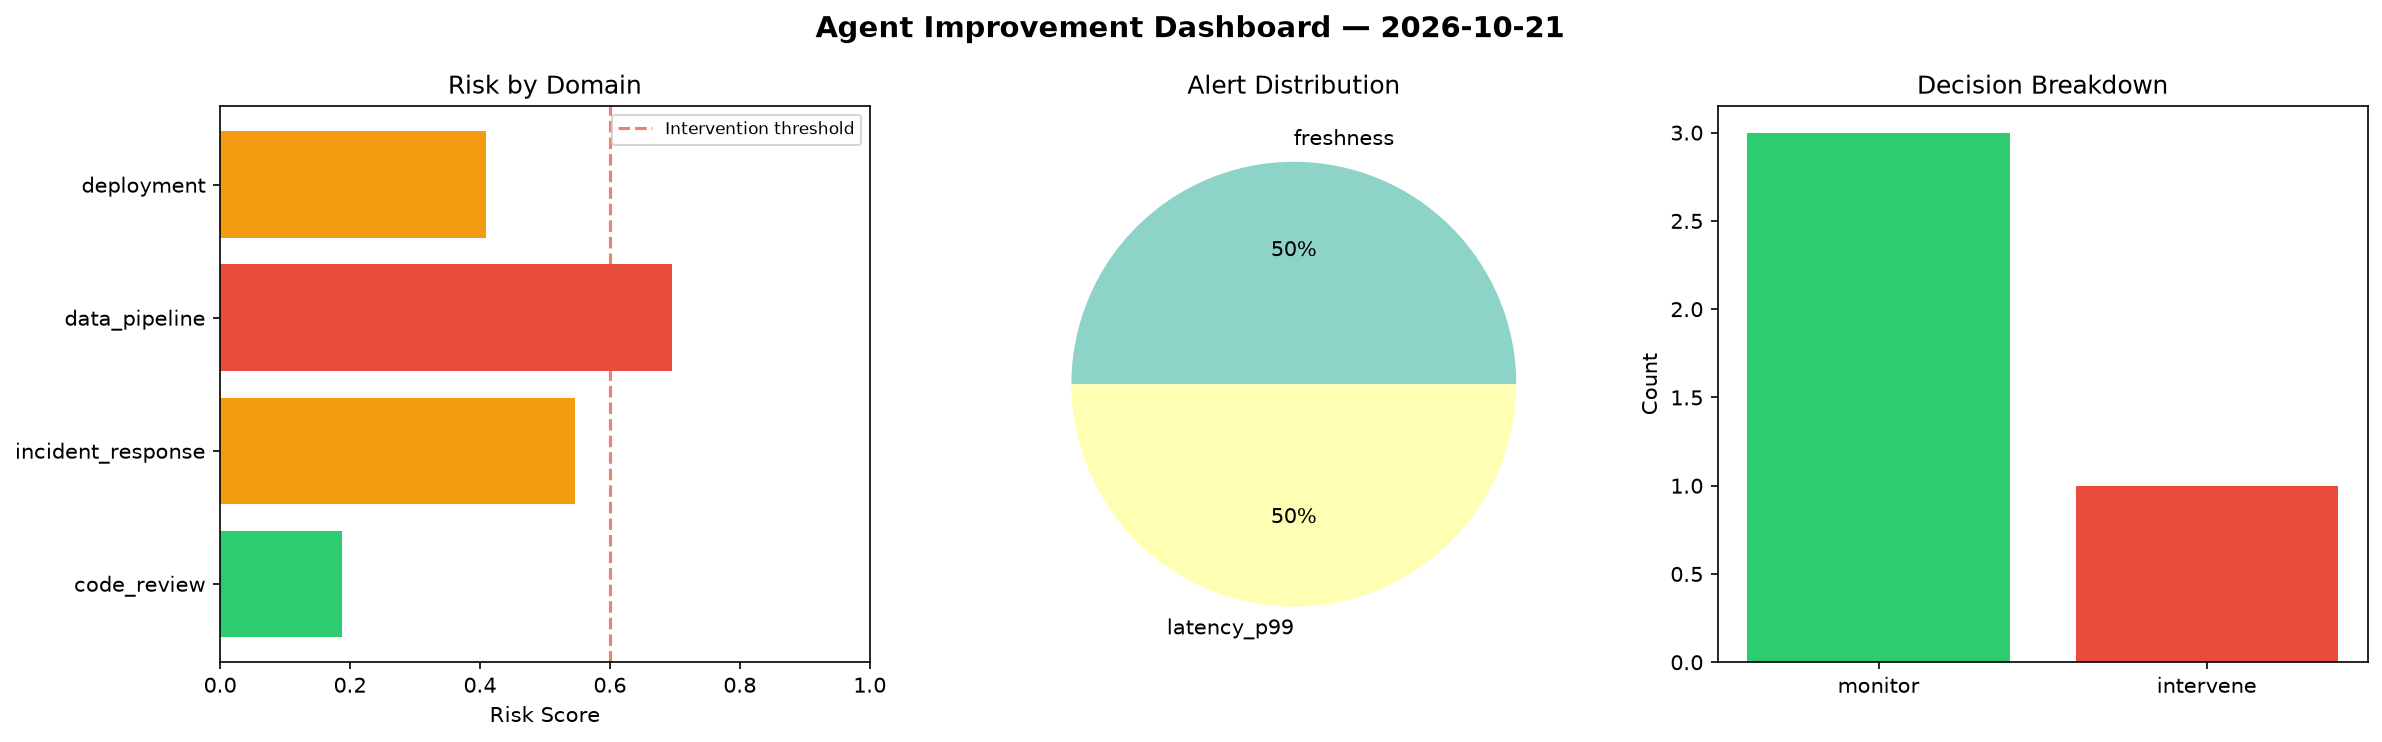
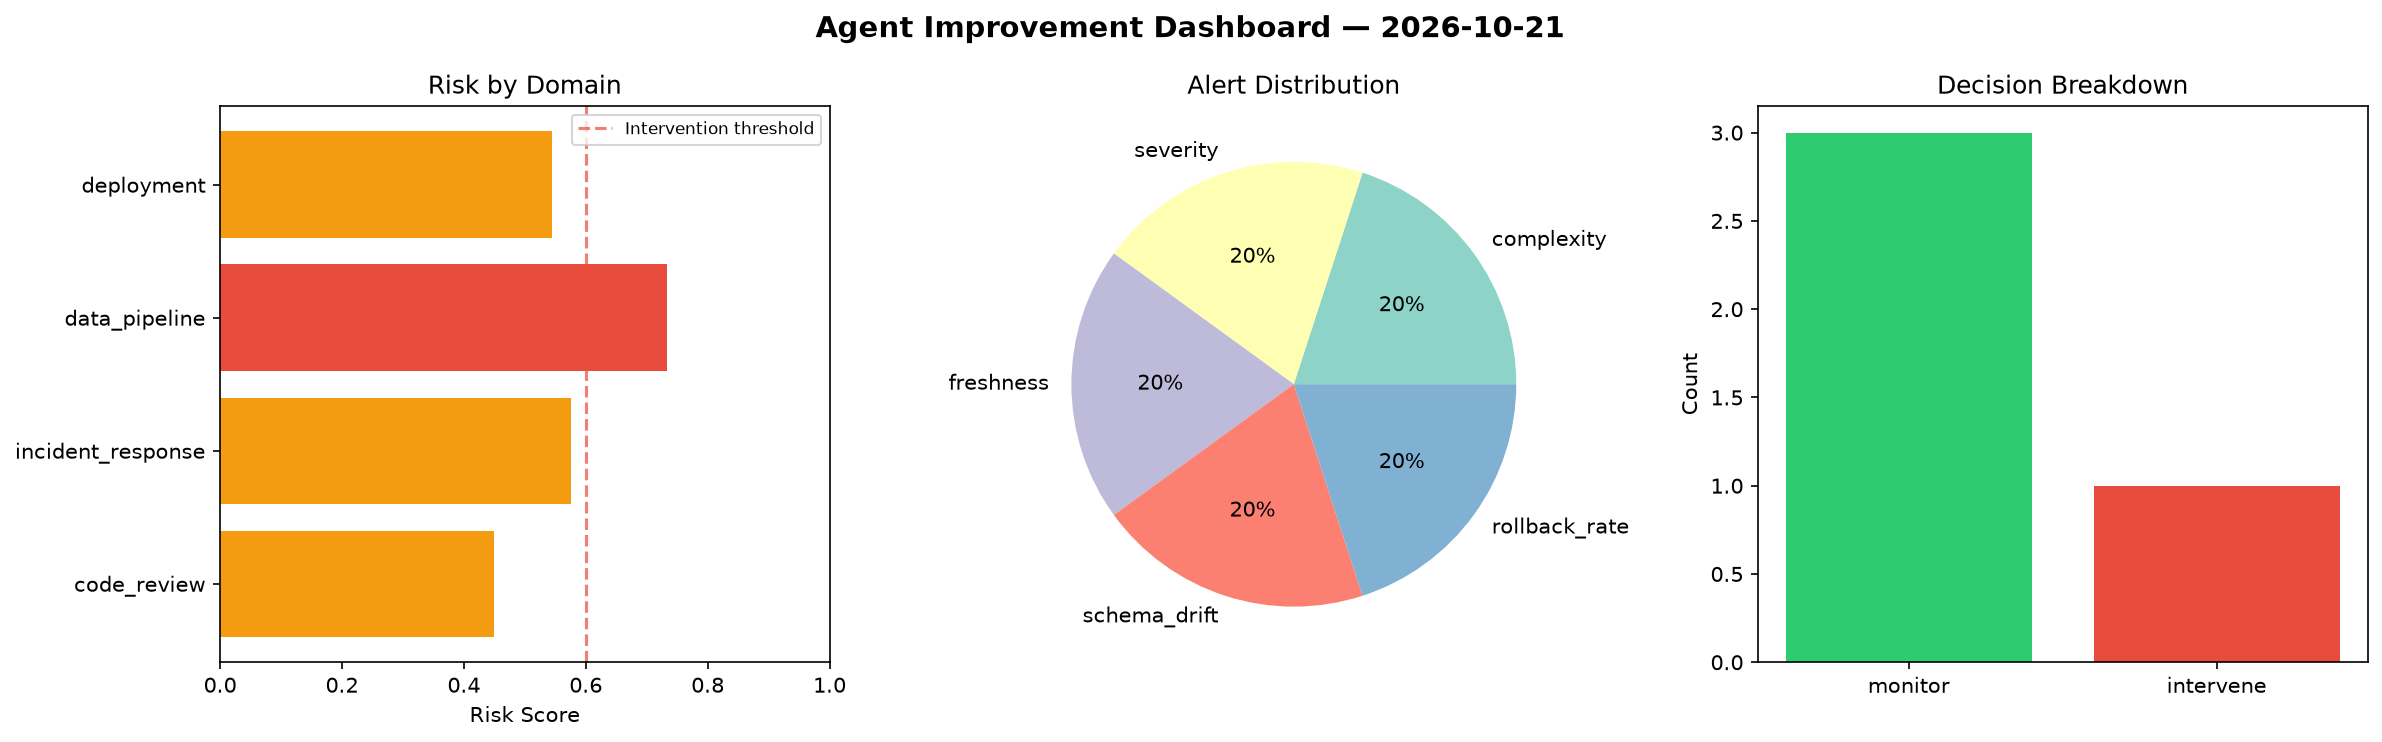
agent-improvement: daily cycle 2026-10-21T23:16

diff --git a/logs/2026-10-21.md b/logs/2026-10-21.md
@@ -1,6 +1,6 @@
 # Agent Improvement Report — 2026-10-21
 
-**Cycle ID:** `4904ba77` | **Avg Risk:** 0.4599 | **Interventions:** 1/4
+**Cycle ID:** `57a928d5` | **Avg Risk:** 0.576 | **Interventions:** 1/4
 
 ![Dashboard](2026-10-21_dashboard.png)
 
@@ -10,18 +10,18 @@
 
 | Domain | Risk Score | Decision | Alerts |
 |--------|-----------|----------|--------|
-| code_review | 0.1882 | monitor | none |
-| incident_response | 0.5459 | monitor | none |
-| data_pipeline | 0.6961 | intervene | freshness |
-| deployment | 0.4095 | monitor | latency_p99 |
+| code_review | 0.4495 | monitor | complexity |
+| incident_response | 0.5758 | monitor | severity |
+| data_pipeline | 0.7339 | intervene | freshness, schema_drift |
+| deployment | 0.5448 | monitor | rollback_rate |
 
 ## Delta vs Yesterday
 
 | Domain | Today | Yesterday | Change |
 |--------|-------|-----------|--------|
-| code_review | 0.1882 | 0.5076 | 📉 -62.9% |
-| incident_response | 0.5459 | 0.313 | 📈 74.4% |
-| data_pipeline | 0.6961 | 0.6036 | 📈 15.3% |
-| deployment | 0.4095 | 0.4766 | 📉 -14.1% |
+| code_review | 0.4495 | 0.5076 | 📉 -11.4% |
+| incident_response | 0.5758 | 0.313 | 📈 84.0% |
+| data_pipeline | 0.7339 | 0.6036 | 📈 21.6% |
+| deployment | 0.5448 | 0.4766 | 📈 14.3% |
 
 **Refinement:** `{'adjustment': 'tighten_thresholds', 'trend': 'degrading', 'window': 4}`
